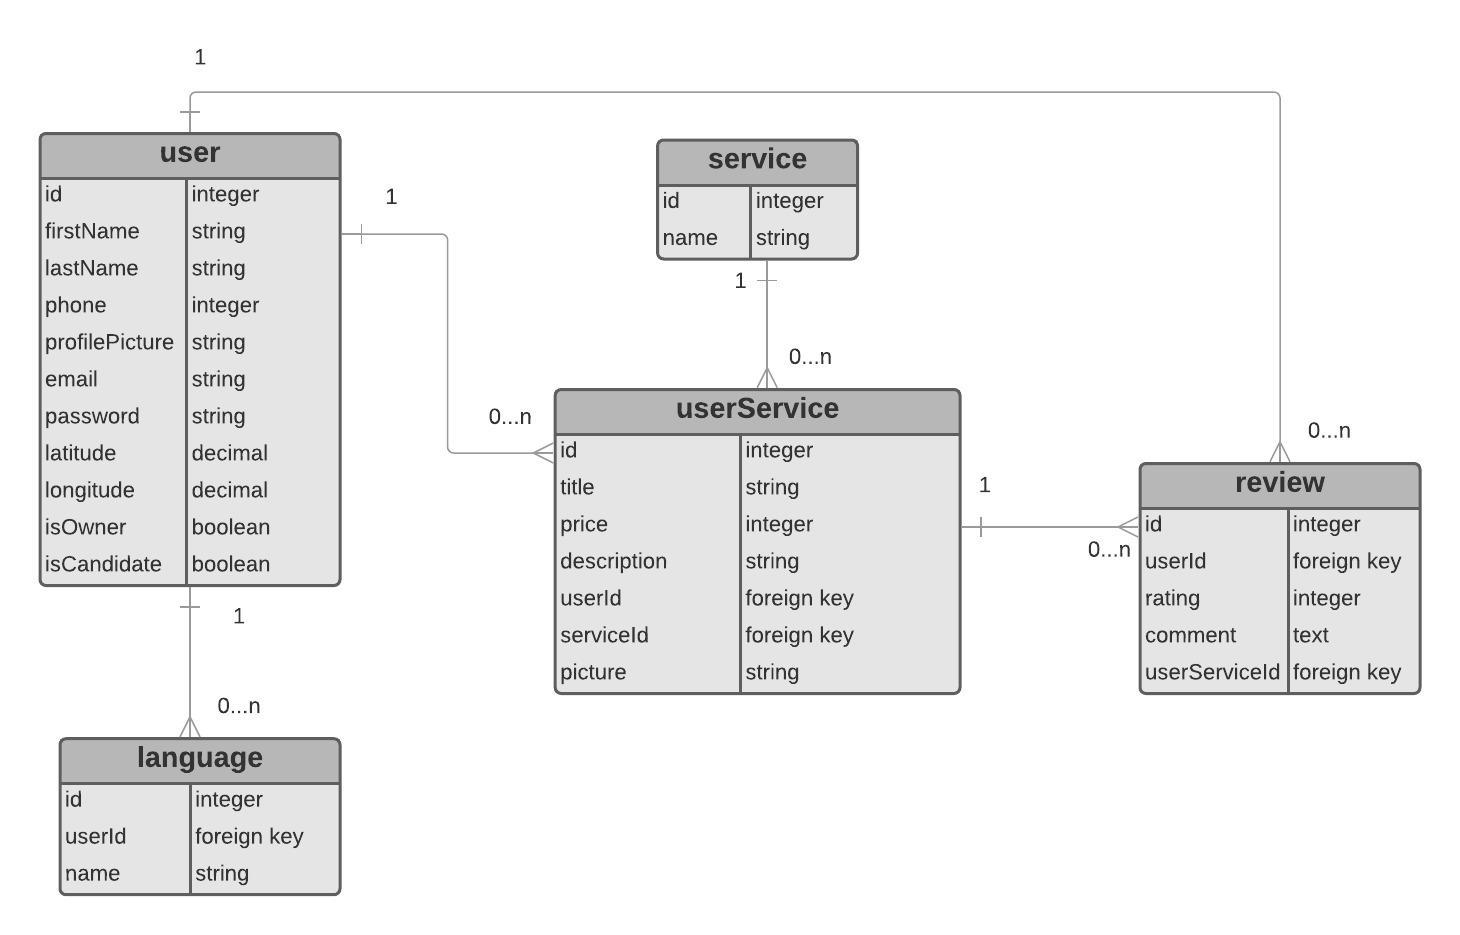
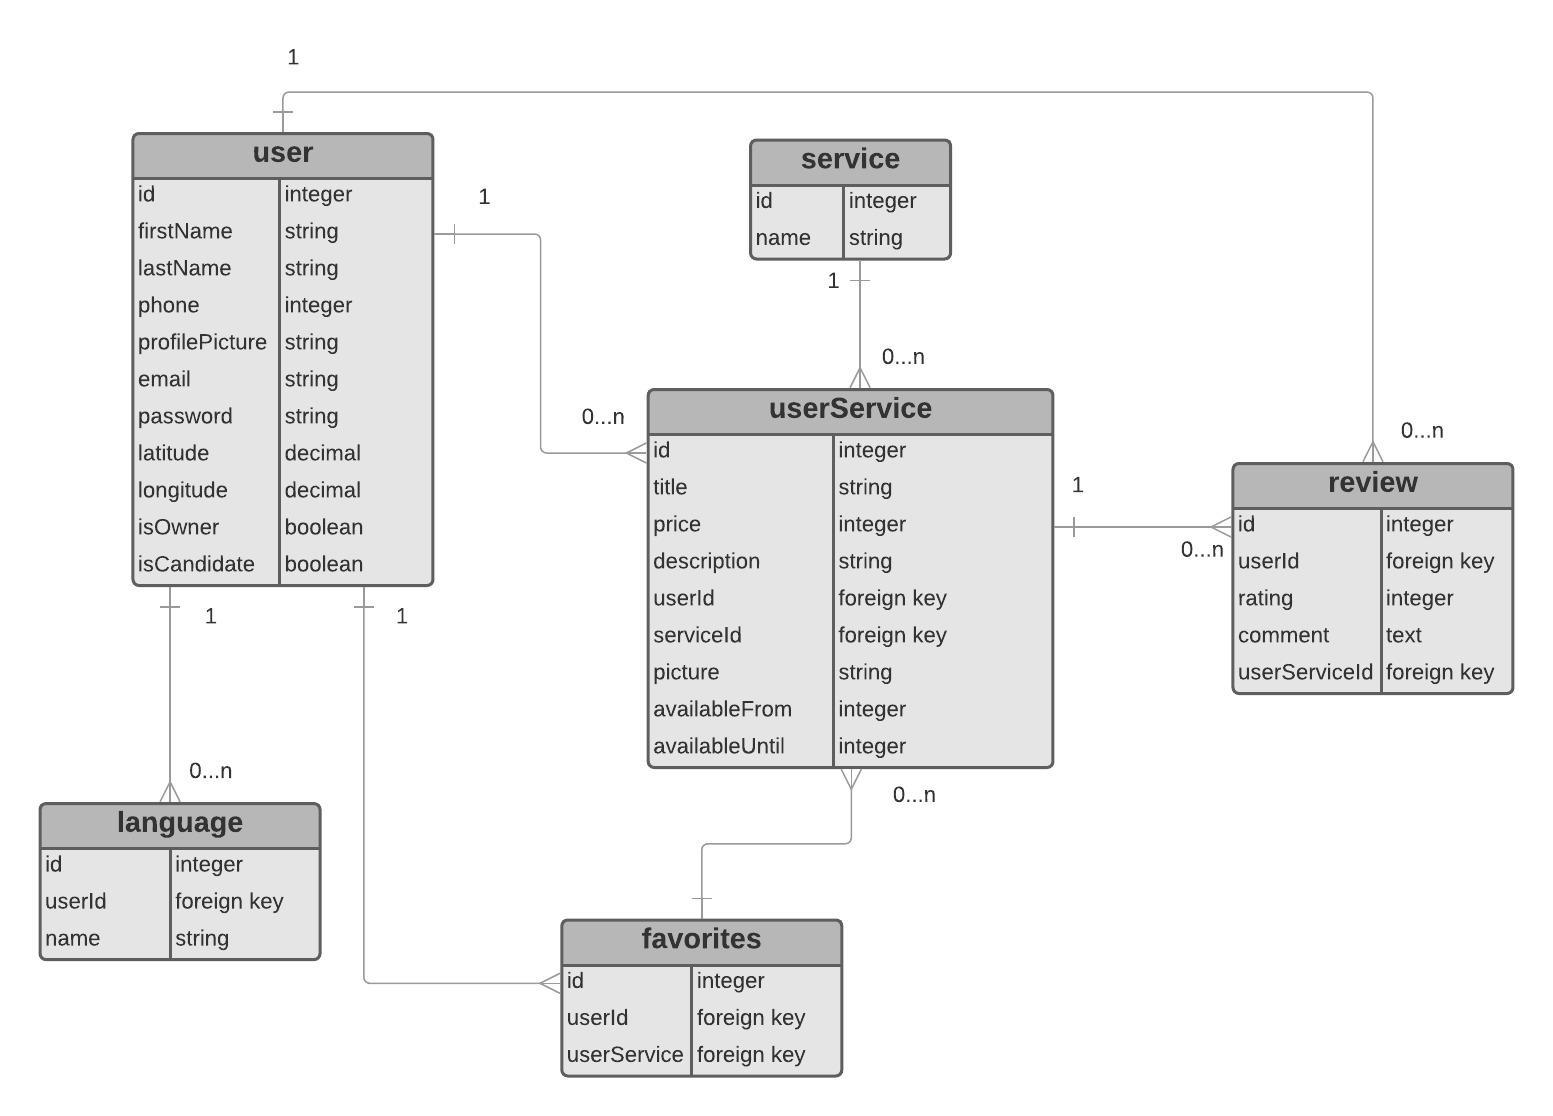
Read me

diff --git a/README.md b/README.md
@@ -23,17 +23,20 @@ Diagram of data models:
 
 ## Endpoints
 
-| Method | Path                                          | Purpose                                         | required parameters                                                          | auth |
-| ------ | --------------------------------------------- | ----------------------------------------------- | ---------------------------------------------------------------------------- | ---- |
-| POST   | '/signup'                                     | Create a new user and get a token               | name,longitude,latitude,phone,email, password,isOwner,isCandidate, languages | no   |
-| POST   | '/login'                                      | Get a token with email & password               | email, password                                                              | no   |
-| GET    | '/me'                                         | Get information of this user                    | none                                                                         | yes  |
-| GET    | '/userservice'                                | Get all profiles of userservice                 | none                                                                         | no   |
-| GET    | '/userservice/:serviceId/:latOwner/:lngOwner' | Get profiles near by one latitude and longitude | serviceId, latitudOwner, longitudOwner                                       | no   |
-| POST   | '/userservice/contact'                        | Contact one candidate by email                  | mailToId, date, time, message, serviceId                                     | yes  |
-| POST   | '/userservice/registerpet'                    | Add a new pet profile                           | name, description, picture                                                   | yes  |
-| POST   | '/userservice/registerservice'                | Add a new service profile                       | title, price, description, picture, serviceId                                | yes  |
-| GET    | '/user/:userId'                               | Get a user by id                                | userId                                                                       | no   |
+| Method | Path                                              | Purpose                                         | required parameters                                                          | auth |
+| ------ | ------------------------------------------------- | ----------------------------------------------- | ---------------------------------------------------------------------------- | ---- |
+| POST   | '/signup'                                         | Create a new user and get a token               | name,longitude,latitude,phone,email, password,isOwner,isCandidate, languages | no   |
+| POST   | '/login'                                          | Get a token with email & password               | email, password                                                              | no   |
+| GET    | '/me'                                             | Get information of this user                    | none                                                                         | yes  |
+| GET    | '/userservice'                                    | Get all profiles of userservice                 | none                                                                         | no   |
+| GET    | '/userservice/:serviceId/:latOwner/:lngOwner/:km' | Get profiles near by one latitude and longitude | serviceId, latitudOwner, longitudOwner,km                                    | no   |
+| POST   | '/userservice/contact'                            | Contact one candidate by email                  | mailToId, date, time, message, serviceId                                     | yes  |
+| POST   | '/userservice/registerpet'                        | Add a new pet profile                           | name, description, picture                                                   | yes  |
+| POST   | '/userservice/registerservice'                    | Add a new service profile                       | title, price, description, picture, serviceId                                | yes  |
+| GET    | '/user/:userId'                                   | Get a user by id                                | userId                                                                       | no   |
+| GET    | '/favorites'                                      | Get favorites by user logged in                 | none                                                                         | yes  |
+| POST   | '/favorites/add'                                  | Add a new favorite                              | idUserService                                                                | yes  |
+| DELETE | '/favorites/remove/:favoriteId'                   | Remove from favorites                           | none                                                                         | yes  |
 
 ## Technologies used
 
